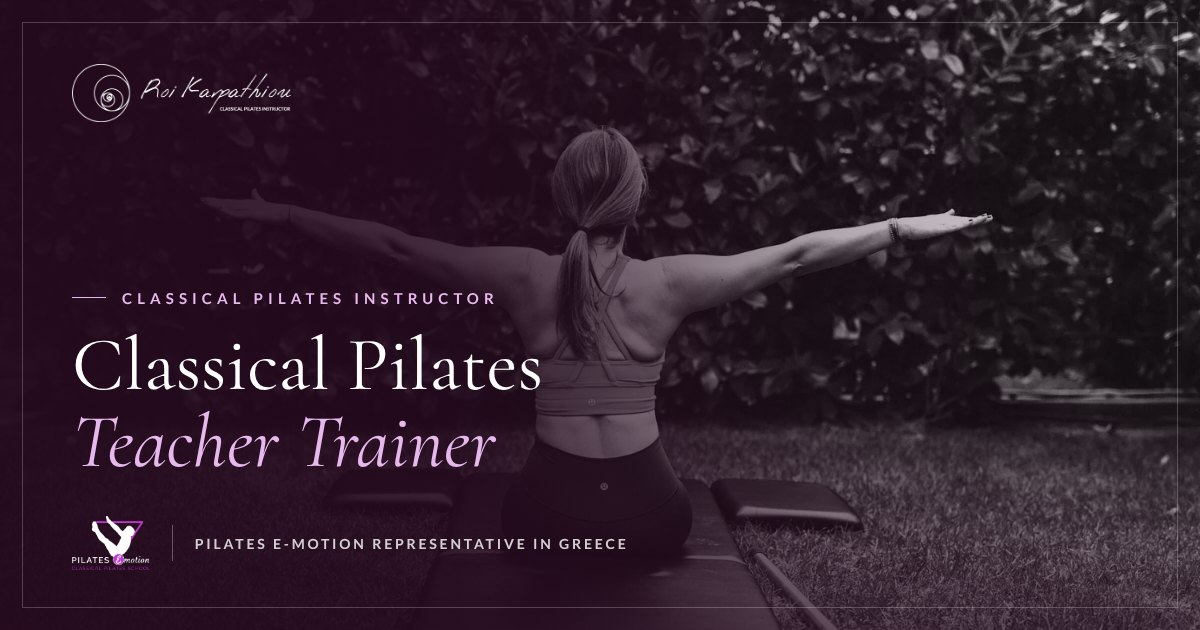
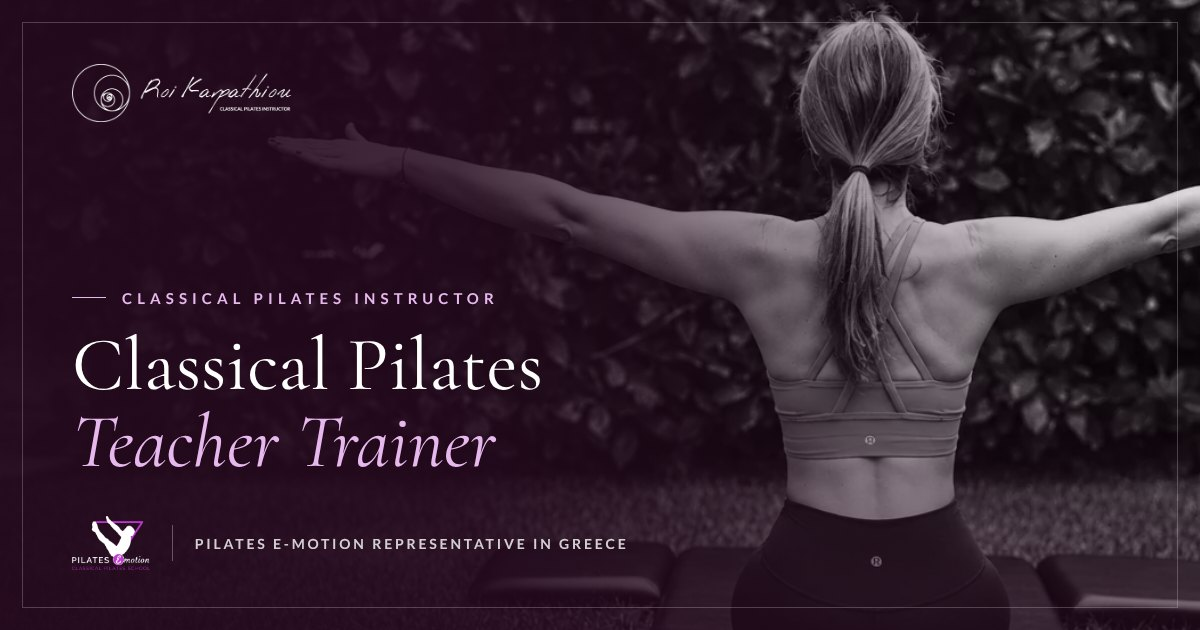
updated background

diff --git a/index.html b/index.html
@@ -60,7 +60,7 @@
 <main id="main">
 
 <section class="hero">
-  <div class="hero__media"><img src="assets/img/roi-hero.webp" srcset="assets/img/roi-hero-800.webp 800w, assets/img/roi-hero.webp 1600w" sizes="100vw" width="1500" height="1000" alt="Roi Karpathiou on the Pilates mat" fetchpriority="high" decoding="async"></div>
+  <div class="hero__media"><img src="assets/img/roi-hero.webp" srcset="assets/img/roi-hero-800.webp 800w, assets/img/roi-hero.webp 1600w" sizes="100vw" width="1536" height="1024" alt="Roi Karpathiou on the Pilates mat" fetchpriority="high" decoding="async"></div>
   <div class="wrap hero__inner">
     <a class="hero__badge" href="pilates-emotion" data-reveal><img src="assets/img/logo-pilates-emotion.png" alt="" width="451" height="313">Pilates E-Motion representative in Greece</a>
     <h1 class="display hero__title" data-split>Classical Pilates <em>Teacher Trainer</em></h1>
